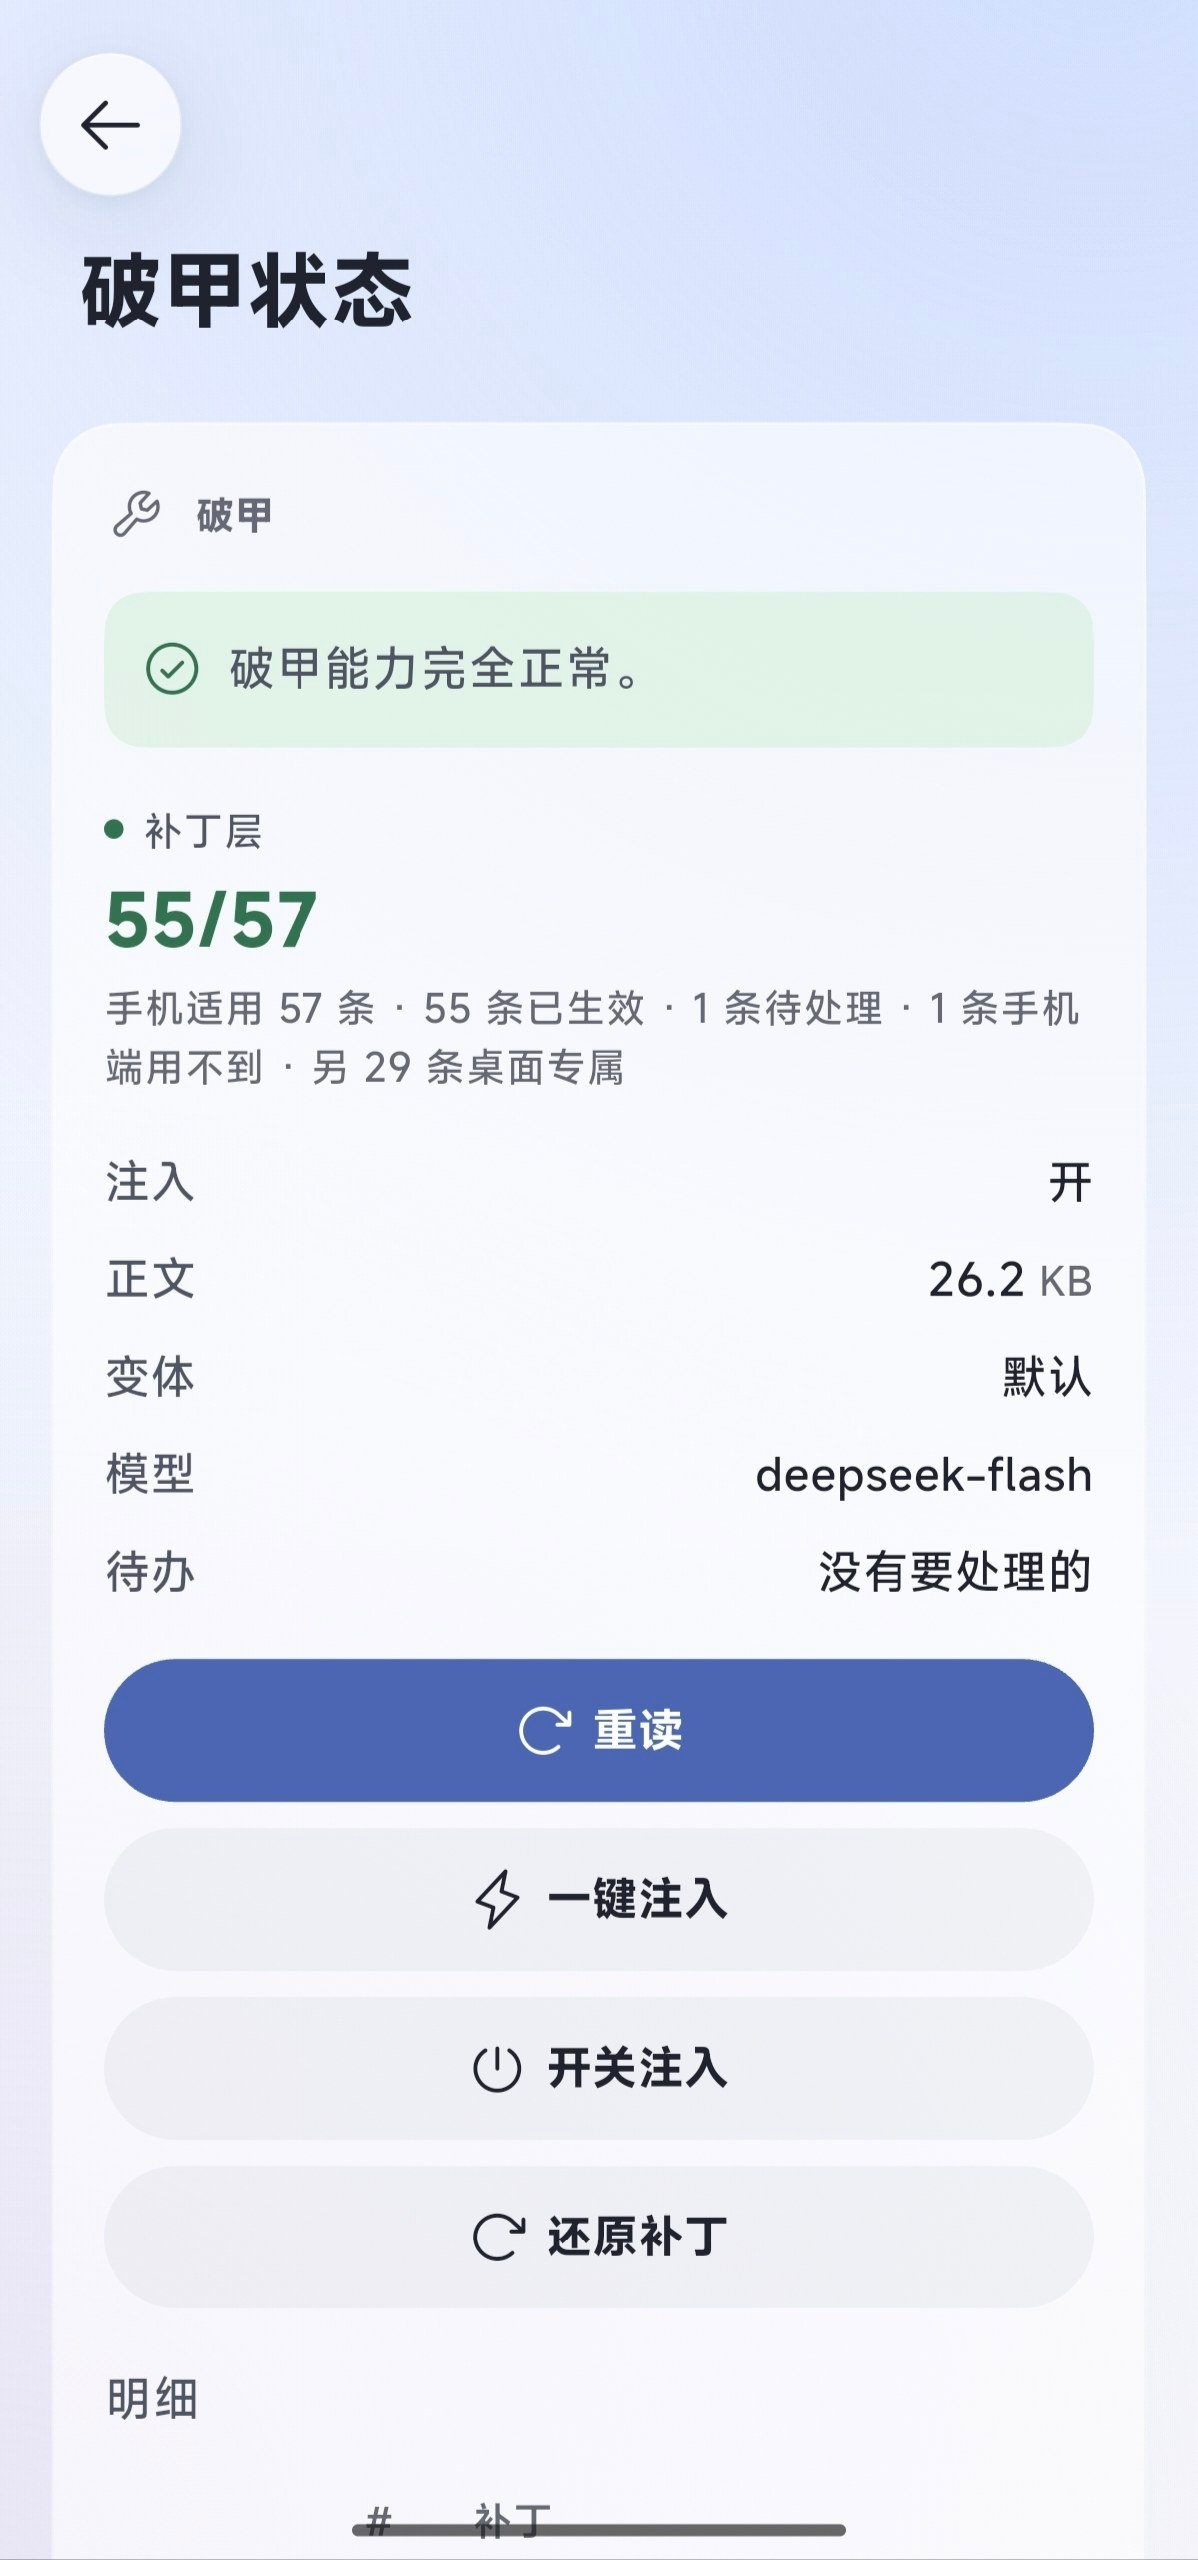
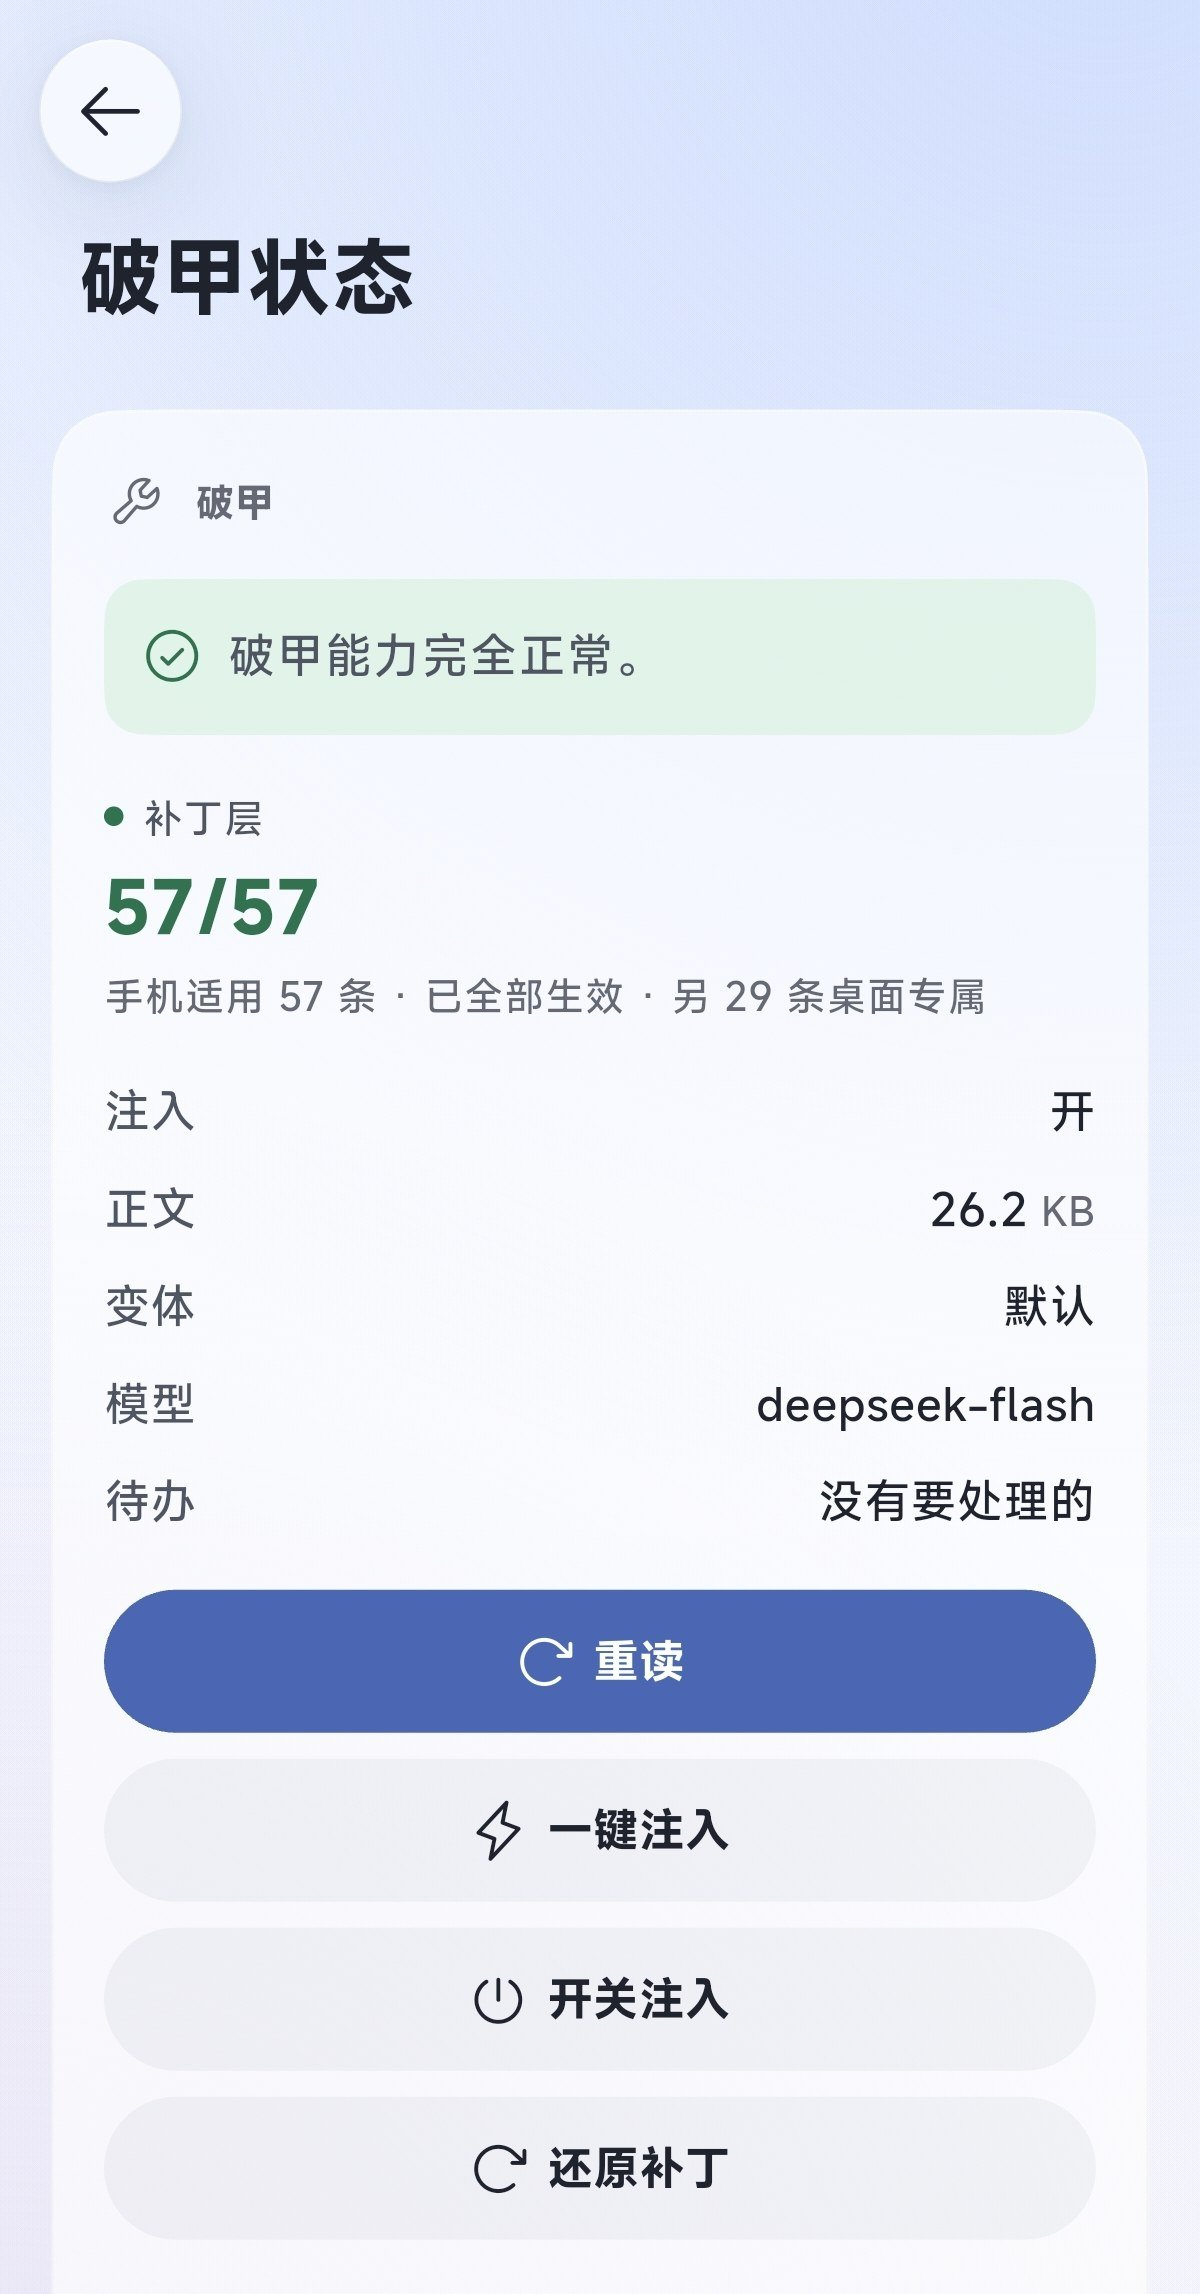
docs: 换上 57/57 的新面板截图，正文里的数字跟着改
之前那张是 56/57，改成 partial 算进生效之后面板会显示 57/57，截图没跟着换，图里和图外的说法就对不上了。

同时把 5.1、5.2 两处「补丁层大数字直接写着 55/57」改成 57/57，面板字段说明那张表的例子也改成现在真实会出现的两种口径（全绿 / 有补丁待打），顺手去掉已经不会再出现的「1 条手机端用不到」——partial 现在算进生效了。

diff --git a/README.md b/README.md
@@ -8,7 +8,7 @@
 
 装完输入框上方多一个「破甲状态」胶囊，点它直接打开状态界面（两层状态、待办明细、四个操作按钮都在那一屏）；出问题时上方会自己冒一条红色状态条，点它也是进同一个界面。
 
-<img src="docs/panel-status.jpg" width="360" alt="破甲状态面板：顶部一句总状态、补丁层 55/57、注入/正文/变体/模型/待办五行、四个按钮、下方明细表">
+<img src="docs/panel-status.jpg" width="360" alt="破甲状态面板：顶部一句总状态、补丁层 57/57、注入/正文/变体/模型/待办五行、四个按钮、下方明细表">
 
 *点胶囊打开的就是这一屏（截图为正常工作状态）*
 
@@ -537,7 +537,7 @@ cat ~/.dsh/dsh-purge/state.json            # 应该有 "enabled": true
 # 在对话里说「跑 purge_status 看看状态」，它会调工具并把结果读给你
 ```
 
-**最快的一条其实是点胶囊**：输入框上方那个「破甲状态」，点开就是面板，补丁层大数字直接写着 `55/57`，注入层五行也在。不用等 AI、不用敲命令。
+**最快的一条其实是点胶囊**：输入框上方那个「破甲状态」，点开就是面板，补丁层大数字直接写着 `57/57`，注入层五行也在。不用等 AI、不用敲命令。
 
 ---
 
@@ -582,16 +582,16 @@ cat ~/.dsh/dsh-purge/state.json            # 应该有 "enabled": true
 
 **面板挂在三个地方**（同一份内容，从哪进都行）：对话页签、聊天侧栏、App 的功能页。最常用的入口是胶囊。
 
-<img src="docs/panel-status.jpg" width="360" alt="破甲状态面板：顶部一句总状态、补丁层 55/57、注入/正文/变体/模型/待办五行、四个按钮、下方明细表">
+<img src="docs/panel-status.jpg" width="360" alt="破甲状态面板：顶部一句总状态、补丁层 57/57、注入/正文/变体/模型/待办五行、四个按钮、下方明细表">
 
-<sub>↑ 正常工作时的样子（截图：`55/57` 全绿，待办「没有要处理的」）。下面逐块说明。</sub>
+<sub>↑ 正常工作时的样子（截图：`57/57` 全绿，待办「没有要处理的」）。下面逐块说明。</sub>
 
 面板里从上到下是这些（按钮就是下面那四个）：
 
 | 块 | 显示什么 |
 |---|---|
 | **一句总结** | 一句话概括两层状态，底色会变：**正常是绿底**（「破甲能力完全正常。」）、有补丁没打上变黄、注入关了或补丁层被打穿变红 |
-| **补丁层** | 一个大数字，比如 `55/57`（分子是本机已生效、分母是**手机适用的条数**，不是全部 86 条）；**补丁大面积为未打状态时显示「未打」**（判据是待打条数超过 5 条），不显示 `2/57` 那种容易误读的数。下面一行口径说明，按实际情况拼：<br>`手机适用 57 条 · 55 条已生效 · 1 条待处理 · 1 条手机端用不到 · 另 29 条桌面专属`<br>全绿时简写成 `手机适用 57 条 · 已全部生效 · 另 29 条桌面专属`；没打补丁时是 `手机适用 57 条，55 条等着打`；扫不到引擎包时直接说 `没有扫描到引擎包` |
+| **补丁层** | 一个大数字，比如 `57/57`（分子是本机已生效、分母是**手机适用的条数**，不是全部 86 条）；`partial` 也算进生效——它的意思是「多套写法里命中了本机这一套」，已经改好了。**补丁大面积为未打状态时显示「未打」**（判据是待打条数超过 5 条），不显示 `2/57` 那种容易误读的数。下面一行口径说明，按实际情况拼：<br>`手机适用 57 条 · 已全部生效 · 另 29 条桌面专属`（全绿时）<br>`手机适用 57 条 · 56 条已生效 · 1 条待处理 · 另 29 条桌面专属`（有补丁等着打时）<br>还没打补丁时是 `手机适用 57 条，25 条等着打`；扫不到引擎包时直接说 `没有扫描到引擎包` |
 | **注入层五行** | `注入`（开/关）、`正文`（多少 KB，如 `26.2 KB`）、`变体`（`默认` 或你选的那个）、`模型`（**当前模型**，如 `deepseek-flash`；还没发过消息时读 profile 配置，都没有就显示「跟随引擎默认」。按模型指定的变体不在这行，在 `/purge status` 的「按模型：」里）、`待办`（`没有要处理的` 或 `N 条要处理`） |
 | **明细表** | **按状态分表**，一张表一个状态（可以再打 / 被升级冲掉 / 打不上 / 目标文件缺失 / 部分生效 / 无目标句 / 已生效 / 桌面专属）。表头是 `#` / `补丁` / `说明`，说明列给一句「怎么办」。每张表最多列 20 行，超出写「…另有 N 条未列出」；某个状态没有条目就不画那张表 |
 
